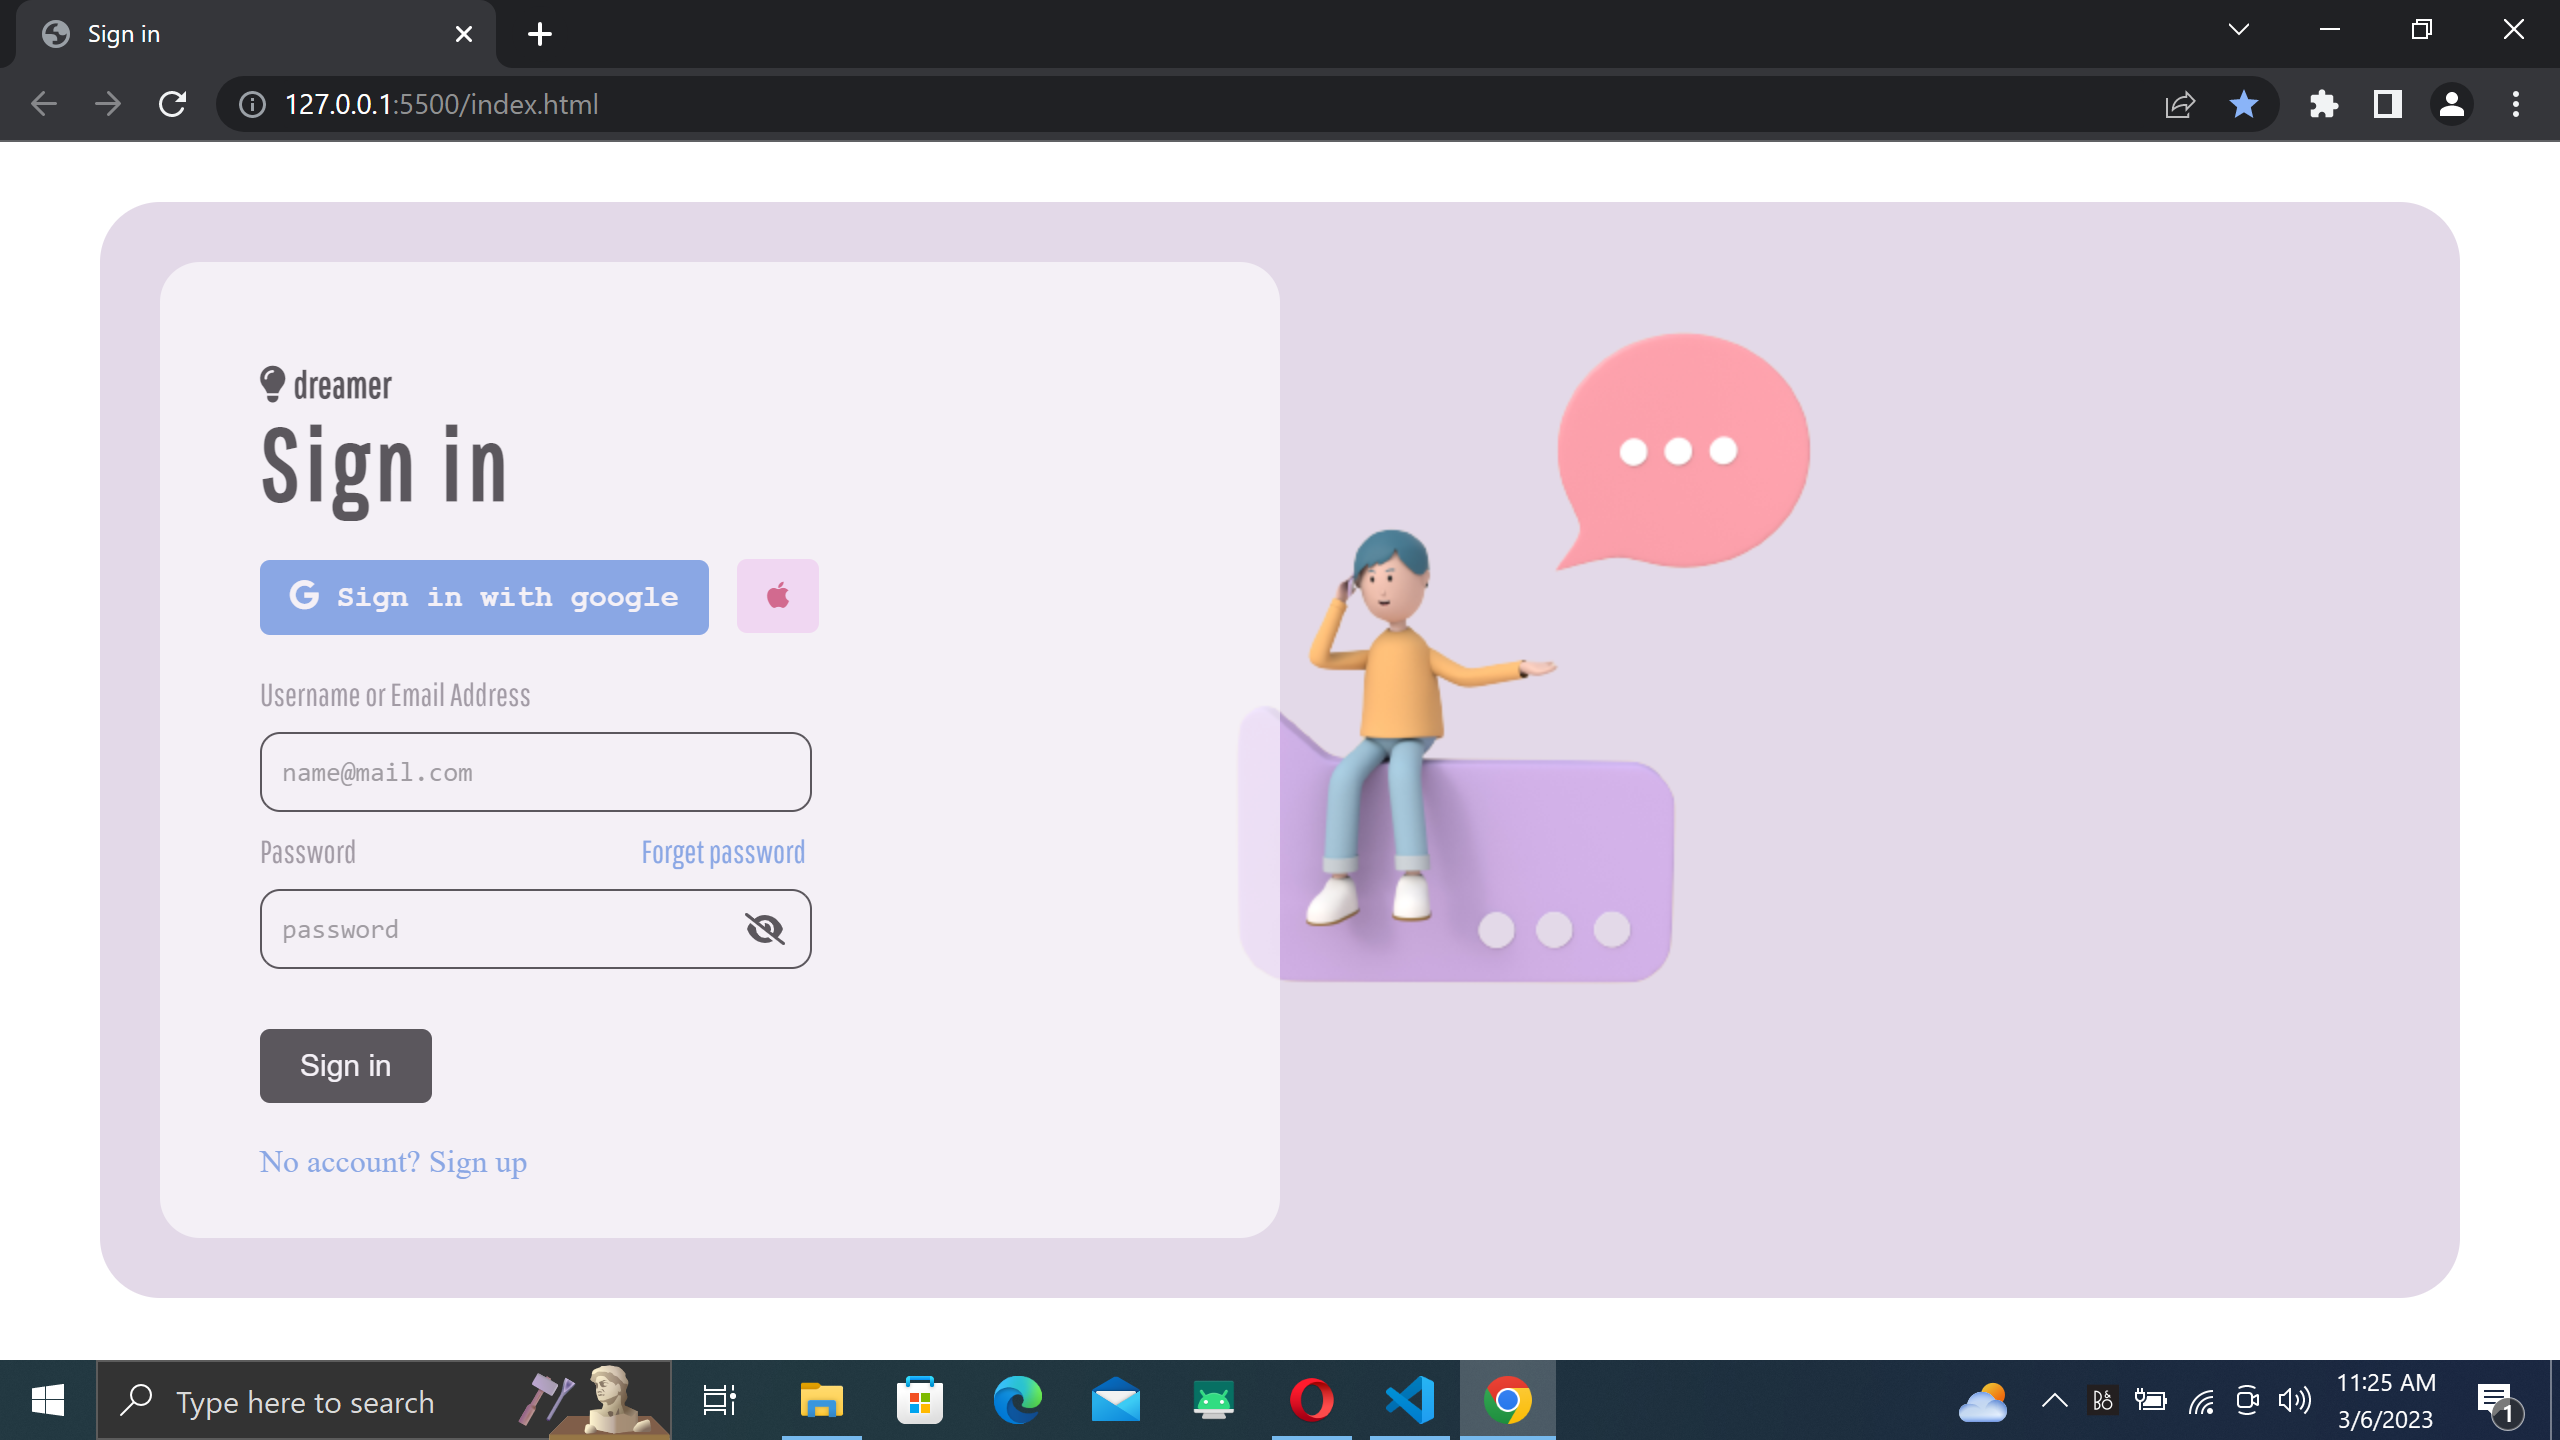
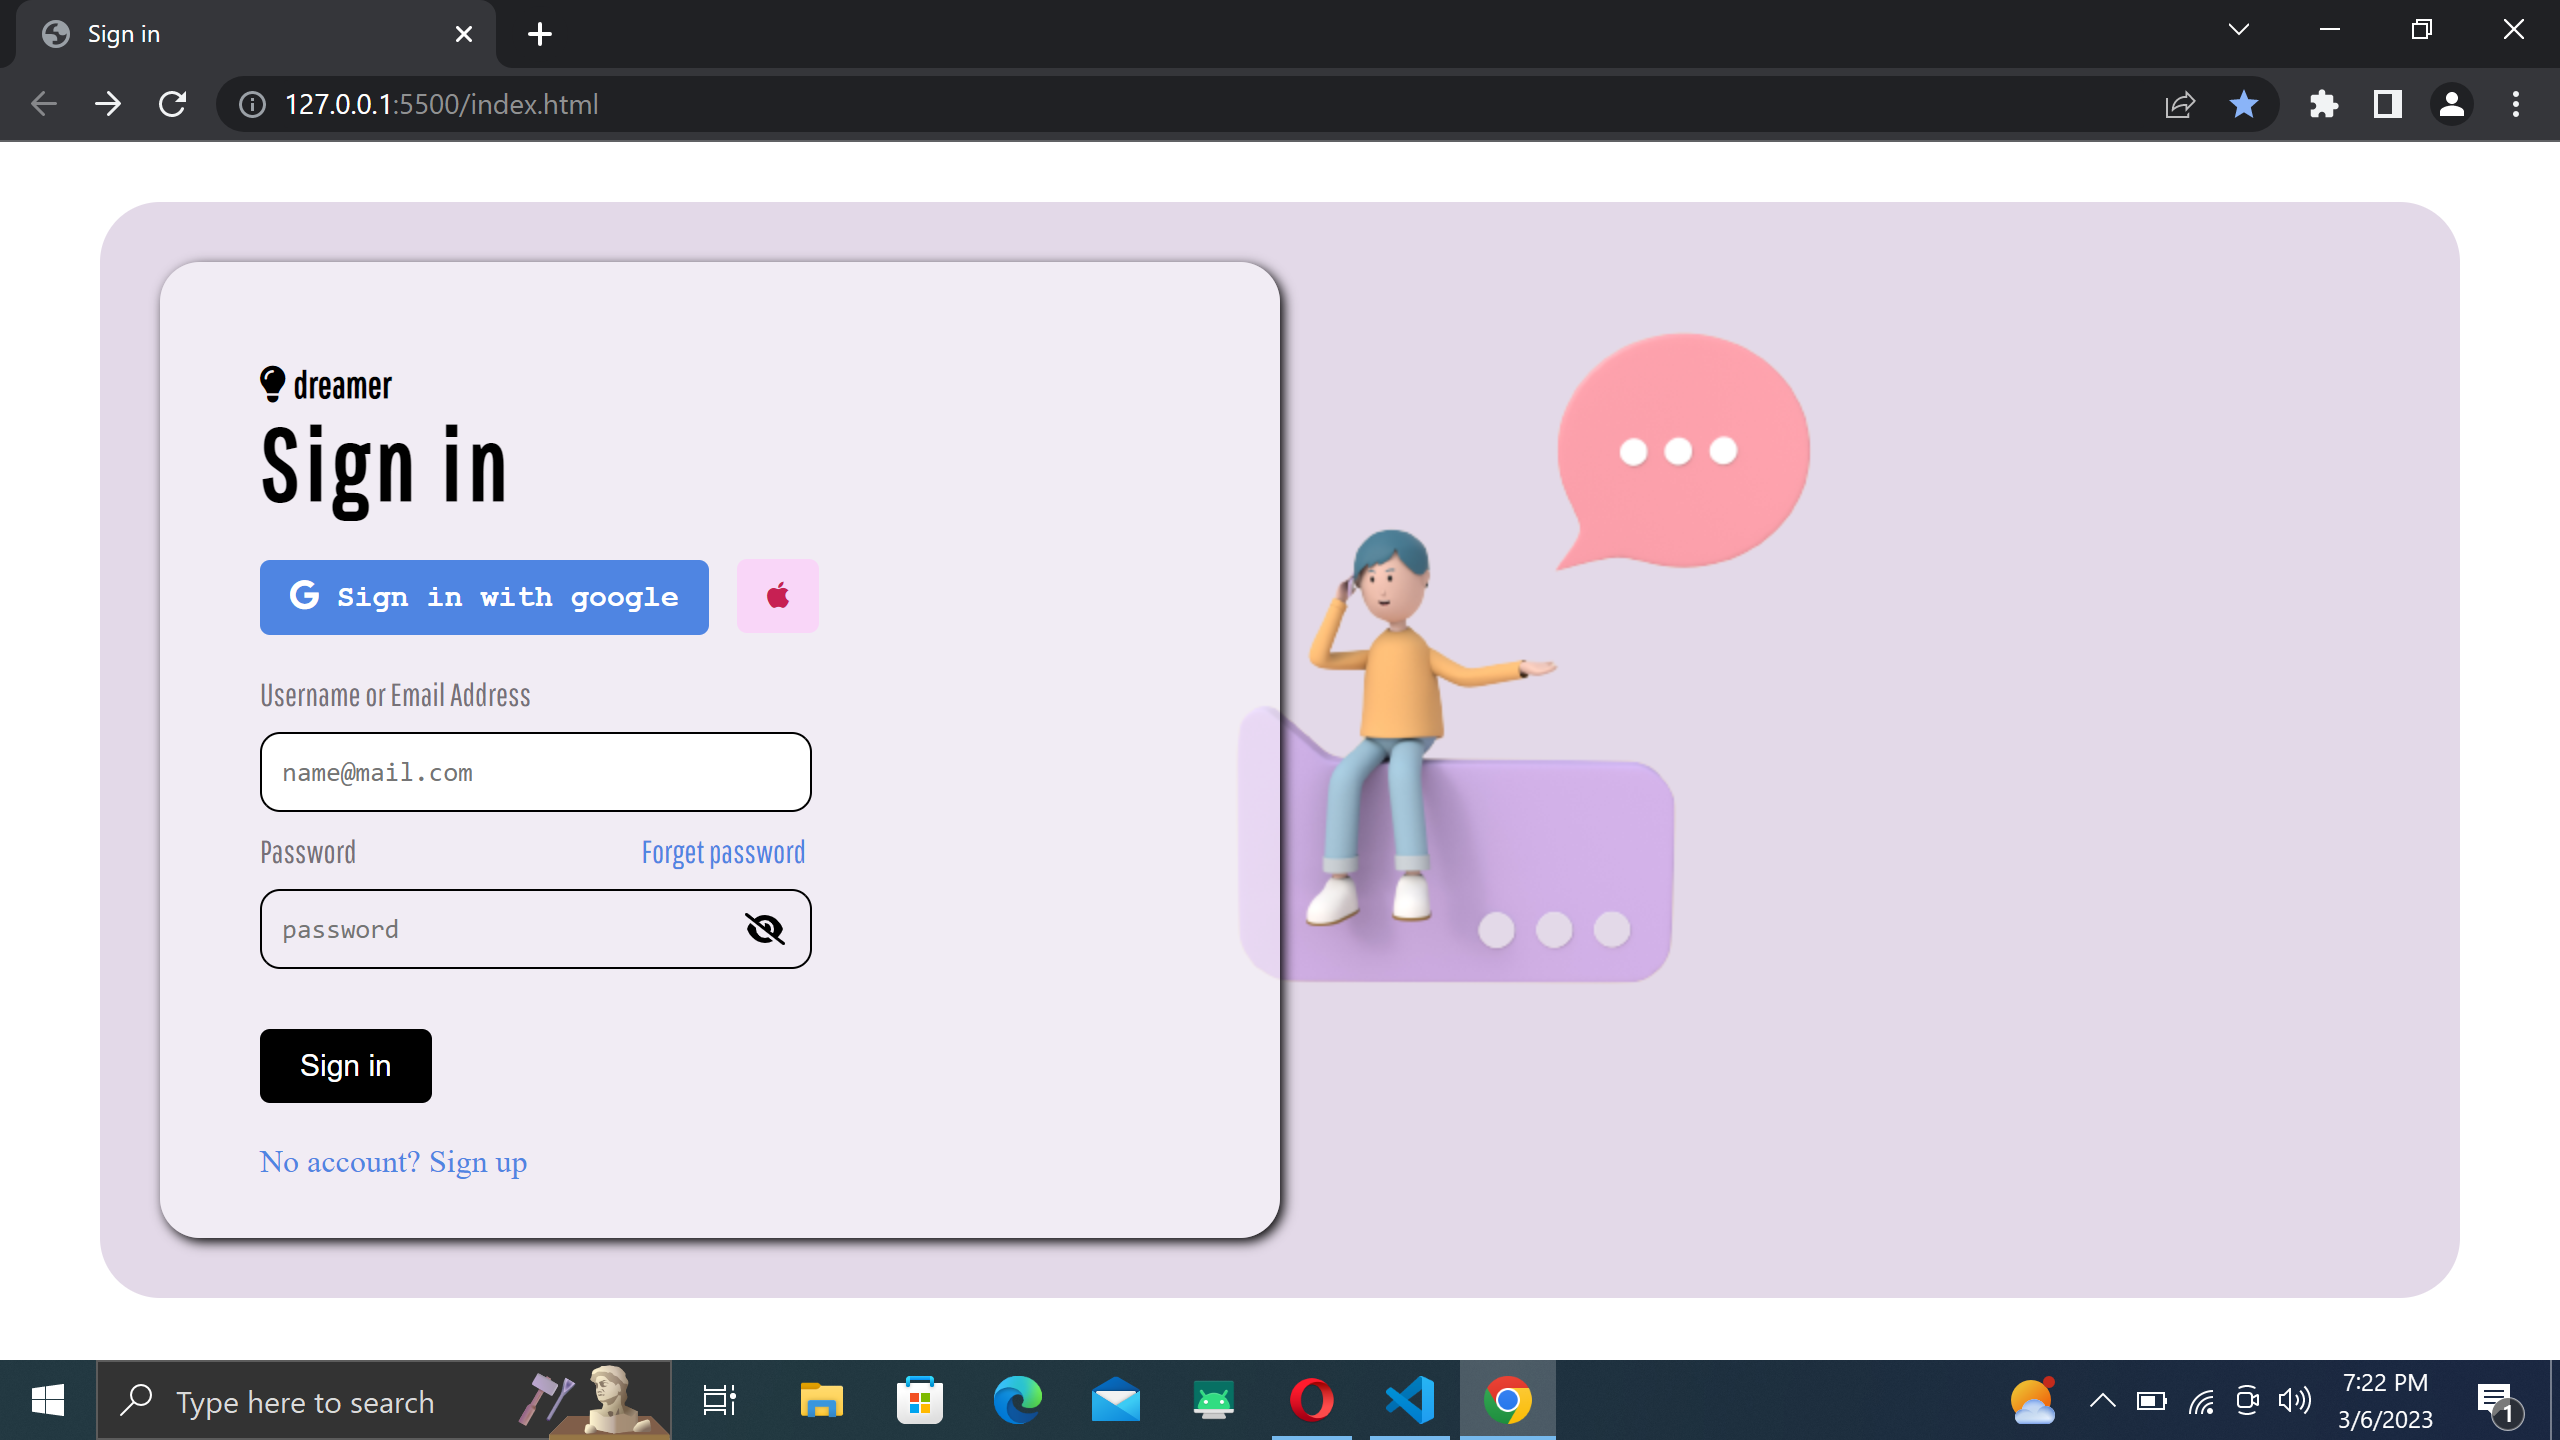
added shadow

diff --git a/css/index.css b/css/index.css
@@ -4,7 +4,6 @@
     padding: 0;
     box-sizing: border-box;
 }
-
 .main-body{
     
     box-sizing: 0;
@@ -14,17 +13,18 @@
     padding: 30px;
     overflow-y: hidden;
     border-radius: 30px;
+
    
 
 }
 .container{
+    box-shadow: 2px 2px 6px  black;
     padding: 50px;
     width: 50%;
     height: 100%;
-    background-color: white;
+    background-color: rgba(255, 255, 255, 0.5);
     border-radius: 20px;
     z-index: 1;
-    opacity: 0.6;
     position: relative;
 }
 img{
@@ -93,11 +93,15 @@ input[type=password]{
     background-position: 95%;
     background-size: 20px;
 }
+/* when user is focused on the inputs */
 input[type=email]:focus {
   border: 2px solid green;
 }
 input[type=password]:focus {
     border: 2px solid green;
+  }
+  input[type=email]:invalid{
+    border:2px solid red;
   }
 #sign-in{
     margin: 20px 0;

diff --git a/index.html b/index.html
@@ -22,7 +22,7 @@
                 Sign in with google
             </button>
             <button id="apple"><i class="fa-brands fa-apple"></i></button>
-            <form>
+            <form action="post">
                 <p>Username or Email Address</p>
                 <input type="email" placeholder="name@mail.com">
                 <p>Password <a href="#">Forget password</a></p>
